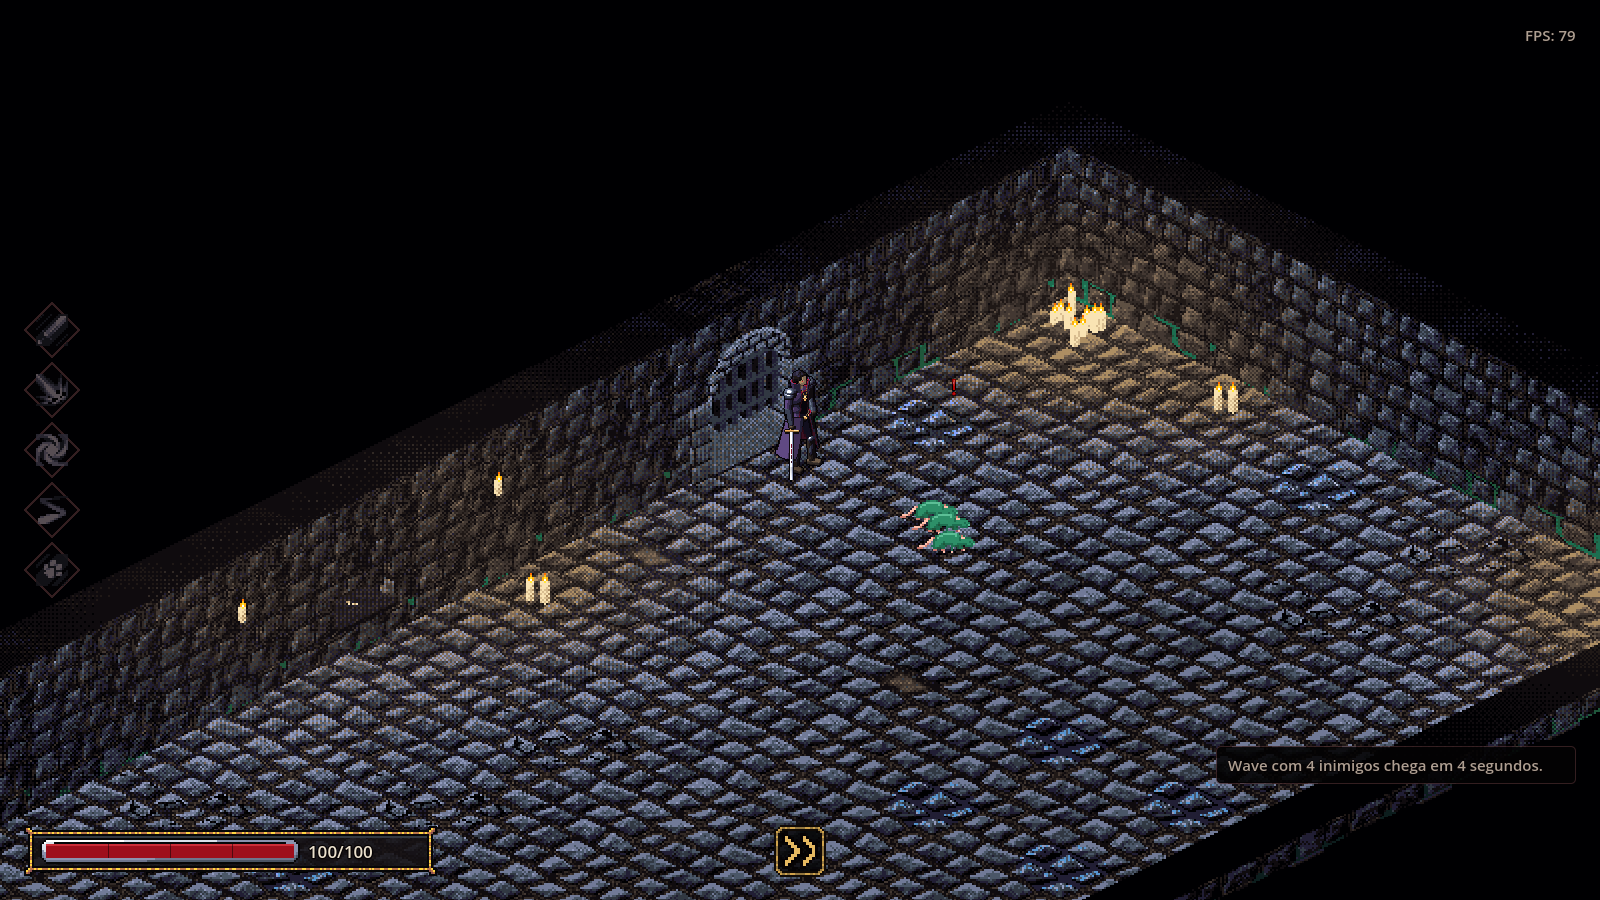
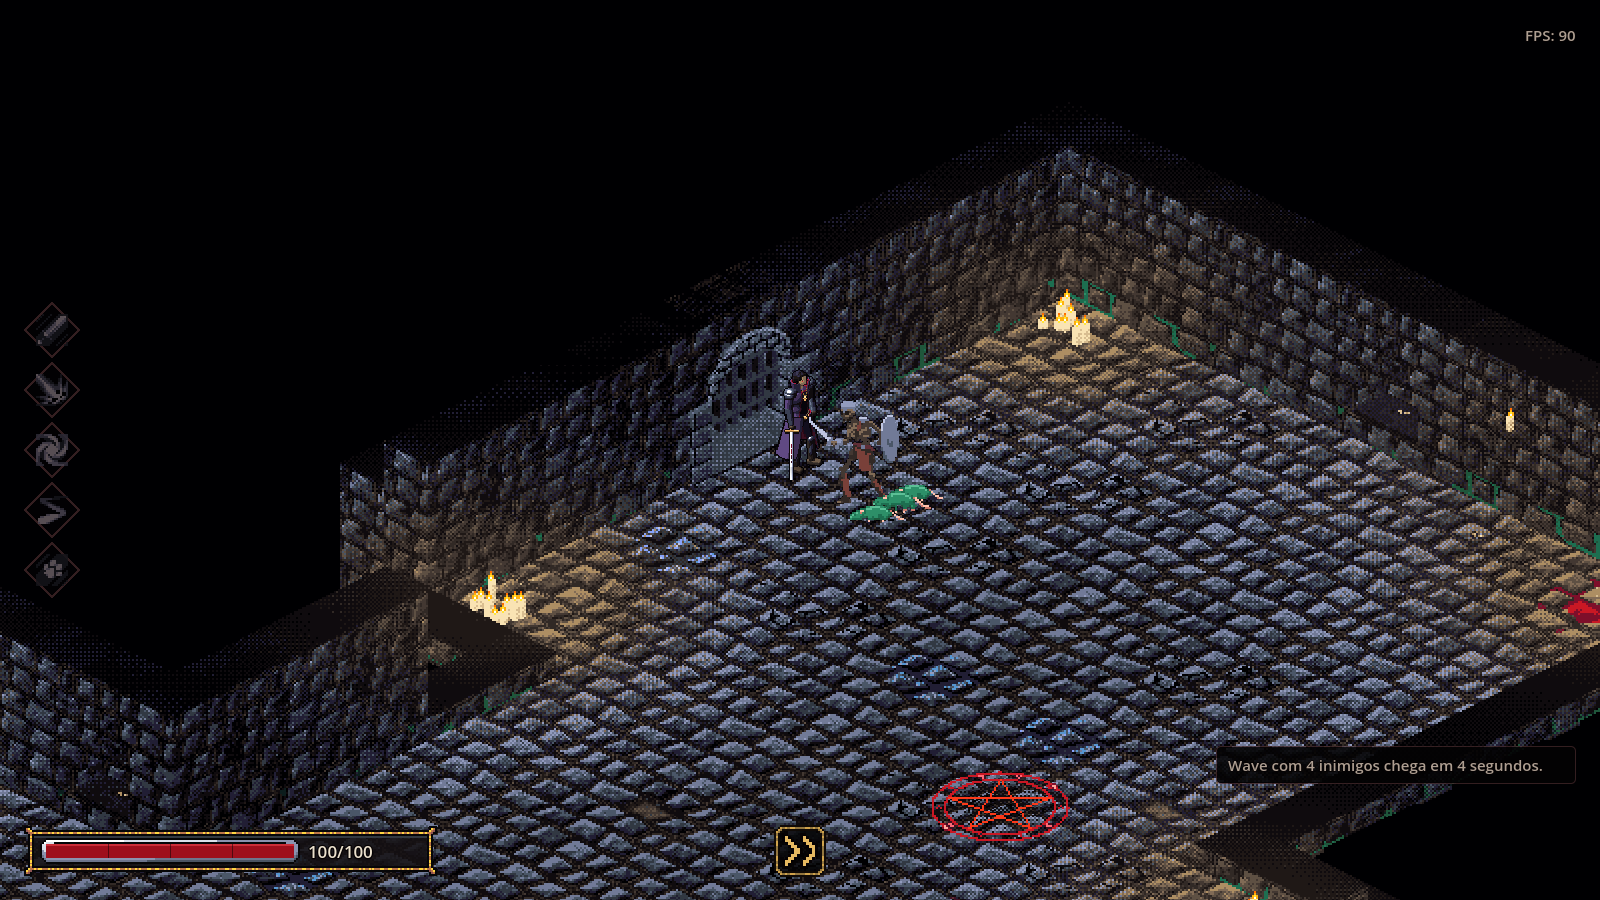
chore: capturas do rato v4 (ataque e morte)

diff --git a/scripts/ui/HUD.Notifications.cs b/scripts/ui/HUD.Notifications.cs
@@ -337,7 +337,7 @@ public partial class HUD
 	// instantes diferentes do efeito.
 	internal async void PreviewOrlokEffect(string screen)
 	{
-		var delay = screen switch { "pestilence_burst_1" => 0.65f, "pestilence_burst_2" => 0.4f, "summoned_rat_1" => 0.5f, _ => 0.0f };
+		var delay = screen switch { "pestilence_burst_1" => 0.65f, "pestilence_burst_2" => 0.4f, "summoned_rat_2" => 0.15f, _ => 0.0f };
 		if (delay > 0.0f)
 			await ToSignal(GetTree().CreateTimer(delay), SceneTreeTimer.SignalName.Timeout);
 		if (GetTree().GetFirstNodeInGroup("player") is not PlayerController player)
@@ -348,14 +348,19 @@ public partial class HUD
 			player.GetNodeOrNull<BloodBlessingRuntime>("BloodBlessingRuntime")?.SpawnPestilenceDeathBurst(center, 3.0f);
 			return;
 		}
-		if (GetTree().GetFirstNodeInGroup("room_generator") is RoomGenerator generator)
+		// summoned_rat_N: ratos colados no inimigo, mordendo. summoned_rat_death_N: ratos de vida curta junto do Virgil, tombando
+		// (vida 0,55 / 0,7 s: a captura, 0,8 s depois da abertura, cai a 0,25 / 0,1 s do começo da animação de morte de 0,5 s).
+		var death = screen.StartsWith("summoned_rat_death");
+		if (!death && GetTree().GetFirstNodeInGroup("room_generator") is RoomGenerator generator)
 			generator.DevSpawnEnemy(new Vector3(center.X + 1.5f, 0.2f, center.Z), EnemyRarity.Normal, null);
+		var lifetime = screen switch { "summoned_rat_death_1" => 0.55f, "summoned_rat_death_2" => 0.7f, _ => 8.0f };
 		for (var i = 0; i < 3; i++)
 		{
-			var rat = new SummonedRat { OwnerPlayer = player, LifetimeSeconds = 8.0f, AttackDamage = 0.0f };
+			var rat = new SummonedRat { OwnerPlayer = player, LifetimeSeconds = lifetime, AttackDamage = 0.0f };
 			GetTree().CurrentScene.AddChild(rat);
-			// Distâncias diferentes do Virgil (0,8 / 2,2 / 3,6 m): os mais longe já estão a caminho do inimigo.
-			rat.GlobalPosition = player.GlobalPosition + new Vector3(0.8f + 1.4f * i, 0.08f, 0.5f * (i - 1));
+			rat.GlobalPosition = death
+				? player.GlobalPosition + new Vector3(1.0f + 0.9f * i, 0.08f, 0.5f * (i - 1))
+				: center + new Vector3(1.0f + 0.4f * i, 0.08f, 0.5f * (i - 1));
 		}
 	}
 

diff --git a/scripts/ui/UiPreview.cs b/scripts/ui/UiPreview.cs
@@ -101,6 +101,7 @@ public partial class UiPreview : Node
 		("pestilence_cloud_1", null, SceneArena), ("pestilence_cloud_2", null, SceneArena), ("pestilence_cloud_3", null, SceneArena),
 		("pestilence_burst_1", null, SceneArena), ("pestilence_burst_2", null, SceneArena),
 		("summoned_rat_1", null, SceneArena), ("summoned_rat_2", null, SceneArena),
+		("summoned_rat_death_1", null, SceneArena), ("summoned_rat_death_2", null, SceneArena),
 		("blood_fountain", null, SceneNest), ("skill_popup", null, SceneNest),
 		("weapon_bench", null, SceneNest), ("hub", null, SceneNest), ("hub_cast", null, SceneNest),
 		("dialogue", null, SceneNest), ("dialogue_choice", null, SceneNest), ("hub_npc", null, SceneNest),

diff --git a/scripts/ui/HUD.cs b/scripts/ui/HUD.cs
@@ -451,6 +451,8 @@ public partial class HUD : CanvasLayer
 			case "pestilence_burst_2":
 			case "summoned_rat_1":
 			case "summoned_rat_2":
+			case "summoned_rat_death_1":
+			case "summoned_rat_death_2":
 				PreviewOrlokEffect(screen);
 				return true;
 			case "hub":
